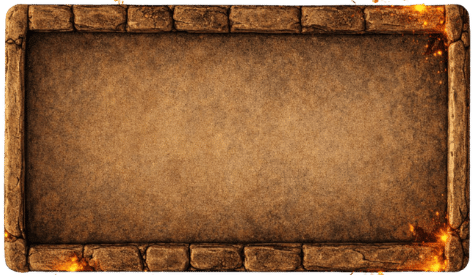
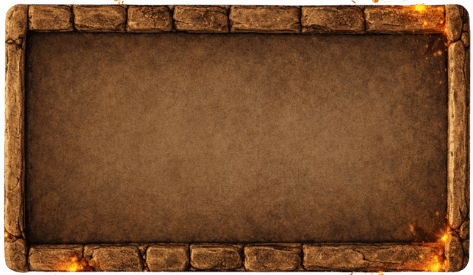
adjust margin

diff --git a/js/cannonSkinShop.js b/js/cannonSkinShop.js
@@ -187,7 +187,7 @@
     skinNameLabel.textContent = getSkin(selectedId).name.toUpperCase();
     Object.assign(skinNameLabel.style, {
       position:      'absolute',
-      left:          '7%',
+      left:          '8%',
       top:           '20%',
       width:         '40%',
       margin:        '0',